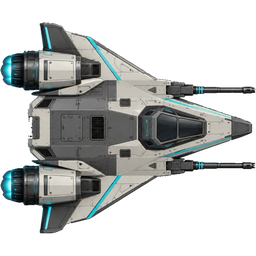
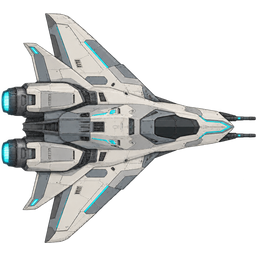
第48弾: 武器の種類を艦種で制限(攻3/潜2/空1)・スプライト一式をチャート参照で作り直し
Claude-Session: https://claude.ai/code/session_01JhR5z5pbpMjPLdDtvMr527

diff --git a/prototype/game.js b/prototype/game.js
@@ -408,10 +408,10 @@ const ENGINE_THRUST = {
 
 // バーニア位置定義 [lxFrac, lyFrac] × vr(=radius*2.8)。bow=+X、stern=-X。
 // 移動時のみCanvasグロー描画。スプライト自体にはスラスター不要（船体のみ生成）。
-const THRUSTER_DEFS = { // 第47弾: 新スプライト (Higgsfield・Star Citizen風) の噴射口に合わせて実測
-    assault: [[-0.93,-0.51],[-0.93, 0.47]],                                            // 2基 (大型ナセル)
-    stealth: [[-0.92, 0.0]],                                                           // 1基 (第47弾b: コンパクトな絵に差し替え)
-    carrier: [[-0.96,-0.32],[-0.96,-0.17],[-0.96, 0.0],[-0.96, 0.17],[-0.96, 0.34]],  // 5基
+const THRUSTER_DEFS = { // 第48弾: Star Citizen チャート参照の絵 (Higgsfield) の噴射口に合わせて実測
+    assault: [[-0.95,-0.38],[-0.95, 0.35]],                                                    // 2基 (大型ナセル)
+    stealth: [[-0.96, 0.0]],                                                                   // 1基
+    carrier: [[-0.98,-0.32],[-0.98,-0.19],[-0.98,-0.08],[-0.98, 0.06],[-0.98, 0.18],[-0.98, 0.31]], // 6基
 };
 
 // ============================================================
@@ -1134,10 +1134,26 @@ const SHIP_DRONES = {
 // 第17弾: 既定の積み方に離脱用の消耗品を入れる (オーナー合意 2026-10-25)。第20弾: 弾(ammoK=実弾の枠/ammoM=ミサイルの枠)を加える
 const DEFAULT_LOADOUT = {
     // 第26弾: リペアキットを各1個 (空母は資材を1枠・攻撃型はミサイルを1枠・潜航型はミサイルを1枠減らして入れる — 実装で決めた既定)
-    carrier: { ammoK: 1, ammoM: 3, attack: 2, build: 1, scout: 1, flash: 1, smoke: 1, mat: 4, repair: 1 },
-    assault: { ammoK: 3, ammoM: 3, attack: 1, flash: 1, smoke: 1, mat: 0, repair: 1 },
-    stealth: { ammoK: 1, ammoM: 1, decoy: 1, noise: 1, flash: 1, mat: 0, repair: 1 },
+    // 第48弾 (オーナー): 積める武器の「種類」を艦種で制限 (攻撃型3・潜航型2・空母1)。w=積んだ武器 (既定: 攻撃型=全部 / 潜航型=実弾+ミサイル / 空母=ミサイルだけ)
+    carrier: { w: ['missile'], ammoK: 0, ammoM: 4, attack: 2, build: 1, scout: 1, flash: 1, smoke: 1, mat: 4, repair: 1 },
+    assault: { w: ['kinetic', 'missile', 'beam'], ammoK: 3, ammoM: 3, attack: 1, flash: 1, smoke: 1, mat: 0, repair: 1 },
+    stealth: { w: ['kinetic', 'missile'], ammoK: 1, ammoM: 1, decoy: 1, noise: 1, flash: 1, mat: 0, repair: 1 },
 };
+const WEAPON_TYPE_CAP = { assault: 3, stealth: 2, carrier: 1 }; // 艦種ごとに積める武器の種類数
+const ALL_WEAPONS = ['kinetic', 'missile', 'beam'];
+// 積んだ武器を整える (重複・不明を除き、種類数の上限で切る。空なら既定)。弾を積んでいない種類の枠は0にする
+function normalizeWset(ship, w) {
+    const cap = WEAPON_TYPE_CAP[ship] || 3, out = [];
+    for (const k of (Array.isArray(w) ? w : [])) if (ALL_WEAPONS.includes(k) && !out.includes(k) && out.length < cap) out.push(k);
+    return out.length ? out : DEFAULT_LOADOUT[ship].w.slice();
+}
+function fixLoadoutWeapons(lo, ship) {
+    lo.w = normalizeWset(ship, lo.w);
+    if (!lo.w.includes('kinetic')) lo.ammoK = 0;
+    if (!lo.w.includes('missile')) lo.ammoM = 0;
+    return lo;
+}
+const _WPN_NAME = { kinetic: '実弾', missile: 'ミサイル', beam: 'ビーム' };
 let cargo = { stock: {}, mat: 0, asm: null, ammoK: 0, ammoM: 0 }; // asm = { type, t, total, ready } / ammoK=実弾の残り(斉射) / ammoM=ミサイルの残り(発)
 // ═══ 第17弾: 緊急離脱 (オーナー合意 2026-10-25) ═══
 // 閃光弾: 自艦の位置で炸裂。半径内の敵はセンサー損傷(探知×0.1)・敵ミサイルは誘導を失う。閃光の瞬間の位置は周囲の敵に知られる
@@ -3121,6 +3137,7 @@ function hitChanceR(w, r, seek) {
 }
 
 function playerWeaponReady(s, w) {
+    if (s === player && !playerHasWeapon(w)) return false; // 第48弾: 積んでいない武器は撃てない
     // 第20弾: 実弾・ミサイルは積んだ弾が尽きたら撃てない (補給所/コロニーで補給)
     if (w === 'kinetic') return !s.kineticReloading && s.kineticAmmo > 0 && (s !== player || cargo.ammoK > 0);
     if (w === 'missile') return !s.missileReloading && (s !== player || cargo.ammoM > 0);
@@ -3422,14 +3439,23 @@ class Ship {
         this.x += Math.cos(this.angle) * this._v; this.y += Math.sin(this.angle) * this._v;
         this.speed = this._v; this.currentSpeed = this._v;
     }
+    // 第48弾: 艦種の標準の武器 (序盤/終盤) が積んでいなければ、積んでいる中で近い役割のものへ
+    _wpref(w) {
+        const ws = this.wset;
+        if (!ws || ws.includes(w)) return w;
+        const alt = { kinetic: ['missile', 'beam'], missile: ['beam', 'kinetic'], beam: ['missile', 'kinetic'] }[w] || [];
+        for (const k of alt) if (ws.includes(k)) return k;
+        return ws[0] || w;
+    }
     _usableWeapon(pref, d) {
         // 第20弾: 艦載機は機銃(実弾)だけ。旧: 実弾の射程外だとミサイルへ切り替え、弾数の管理外で撃ち放題だった (自機の戦闘機も機銃だけ)
         if (this.type === 'fighter') return d <= 760 ? 'kinetic' : null;
-        const ok = (w) => w === 'kinetic' ? d <= 760 && (this.ammoK === undefined || this.ammoK > 0) && !(this._kReload > 0)
+        const ws = this.wset; // 第48弾: 積んでいない武器は撃てない
+        const ok = (w) => (ws && !ws.includes(w)) ? false : w === 'kinetic' ? d <= 760 && (this.ammoK === undefined || this.ammoK > 0) && !(this._kReload > 0)
                         : w === 'missile' ? d <= ENEMY_MISSILE_ENGAGE * 1.05 * epm(this).mslRange && (this.ammoM === undefined || this.ammoM > 0) && !(this._mReload > 0)
                         : w === 'beam' ? !(this._bReload > 0) : false;
         if (ok(pref)) return pref;
-        for (const w of ['missile', 'kinetic']) if (w !== pref && ok(w)) return w;
+        for (const w of ['missile', 'kinetic', 'beam']) if (w !== pref && ok(w)) return w;
         return null;
     }
     _relocateAfterFire(far, aimAng, retreat) {
@@ -3672,6 +3698,7 @@ class Ship {
                 const da = _angDiff(Math.atan2(ty - this.y, tx - this.x), this.angle);
                 if (autoAttackEnabled && lk.full && this.fireCooldown <= 0 && this._weaponJamTimer <= 0) {
                     for (const w of [wType, 'kinetic', 'missile']) {
+                        if (!playerHasWeapon(w)) continue;
                         if (lk.dist < weaponRange(w) && Math.abs(da) < (WEAPON_FIRE_ARC[w] || Math.PI / 4) && playerWeaponReady(this, w)) { playerFireWeapon(this, te, w, lk); break; }
                     }
                 }
@@ -4121,7 +4148,10 @@ class Ship {
             let _supplyActive = false;
             if (!_hideActive && this.type !== 'fighter' && this.ammoM !== undefined) {
                 const _profS = ENEMY_COMBAT[this.type] || ENEMY_COMBAT.destroyer;
-                const _needS = (this.ammoK <= 0 && this.ammoM <= 0) || (this.ammoM <= 0 && (_profS.weaponEarly !== 'kinetic' || this.ammoK < (this._fullK || 1) * 0.25));
+                // 第48弾: 弾を使う武器を積んでいる時だけ補給を考える (ビームだけの艦は弾の補給が要らない)。ミサイルを積んでいなければ実弾が25%を切った時だけ
+      const _hasAmmoW = (this._fullK || 0) > 0 || (this._fullM || 0) > 0;
+      const _kLow = this.ammoK < (this._fullK || 1) * 0.25;
+      const _needS = _hasAmmoW && ((this.ammoK <= 0 && this.ammoM <= 0) || (this.ammoM <= 0 && ((this._fullM || 0) > 0 ? (this._wpref(_profS.weaponEarly) !== 'kinetic' || _kLow) : _kLow)));
                 if (_needS && !this._supply) {
                     let best = null, bd = Infinity, kind = '';
                     for (const c of structures) { if (c.type !== 'colony' || c.hacked || c._usedE) continue; const d = Math.hypot(c.x - this.x, c.y - this.y); if (d < bd) { bd = d; best = c; kind = 'コロニー'; } }
@@ -4231,9 +4261,9 @@ class Ship {
                 // 自機の長距離射撃に一方的に削られていた。近接火器(kinetic)の間合いは従来どおり fireRange。
                 const engageRange = Math.max(fireRange, ENEMY_MISSILE_ENGAGE);
                 // ── 第22弾: 戦艦の戦闘機動 (毎フレーム・慣性つき)。機動の選び方は10秒続ける (相手の兵装が変わった時と耐久が半分を切った時は選び直す) ──
-                let _plannedW = gameState.sector <= 3 ? prof.weaponEarly : prof.weaponLate;
-                if (this.predictedBehavior === 'kinetic' && _plannedW === 'kinetic') _plannedW = 'missile';
-                if (outmatched && _plannedW === 'kinetic') _plannedW = 'missile';
+                let _plannedW = this._wpref(gameState.sector <= 3 ? prof.weaponEarly : prof.weaponLate);
+                if (this.predictedBehavior === 'kinetic' && _plannedW === 'kinetic') _plannedW = this._wpref('missile');
+                if (outmatched && _plannedW === 'kinetic') _plannedW = this._wpref('missile');
                 if (ENEMY_CLASS[this.type]) {
                     const _ms = this._maxSpeeds();
                     const oppW = player && player._lastFireType && _frameCount - (player._lastFireF || -1e9) < 1200 && this.contactFreshness > 0.3 ? player._lastFireType : null;
@@ -4270,13 +4300,13 @@ class Ship {
                     }
                     const diff = _angDiff(ta, this.angle);
                     // 艦種別の武器選択 (序盤/終盤) + 既存の行動推定適応
-                    let wType = gameState.sector <= 3 ? prof.weaponEarly : prof.weaponLate;
+                    let wType = this._wpref(gameState.sector <= 3 ? prof.weaponEarly : prof.weaponLate);
                     // 適応: プレイヤーが実弾近接戦と推定 & 自分も近接武器なら長射程へ (アウトレンジ)
-                    if (this.predictedBehavior === 'kinetic' && wType === 'kinetic') wType = 'missile';
-                    if (outmatched && wType === 'kinetic') wType = 'missile';
+                    if (this.predictedBehavior === 'kinetic' && wType === 'kinetic') wType = this._wpref('missile');
+                    if (outmatched && wType === 'kinetic') wType = this._wpref('missile');
                     this.weaponType = wType;
                     // kinetic は射程800しか飛ばないので、それを超える間合いでは強制的にミサイルへ
-                    if (wType === 'kinetic' && distToBelief > 760) wType = 'missile';
+                    if (wType === 'kinetic' && distToBelief > 760) wType = this._wpref('missile');
                     // 第20弾: 弾数・リロード・ビームのチャージ (自機と同じ)。使えない兵装は持ち替え、何も無ければ撃たない
                     wType = this._usableWeapon(wType, distToBelief);
                     // 第39弾: 見えていない相手には、推定円が十分に小さい時だけ撃つ (自機COMと同じ基準: 見込み ≥ 65% − 35%×攻撃性)。方位しか無ければ撃たない
@@ -5788,6 +5818,14 @@ function generateSector() {
         const _th = document.getElementById('think-who');
         if (_th) _th.textContent = '自機COM ' + SHIP_JP[comCfg.ship] + ' [' + persLabel(_com.pp) + ']  vs  敵COM ' + SHIP_JP[comCfg.enemy] + ' [' + persLabel(boss.personality) + ']';
     }
+    // 第48弾: 敵の武器の種類も艦種の上限 (攻撃型3・潜航型2・空母1)。COM対戦は積み込みの設定どおり。通常の敵は性格で選ぶ (潜航型: 隠密/慎重ならビーム+ミサイル・他は実弾+ミサイル)
+    { const _es2 = { destroyer: 'assault', corvette: 'stealth', carrier: 'carrier' }[boss.type] || 'assault';
+      const _cl2 = comDemo && comCfg && comCfg.lo && comCfg.lo.e && comCfg.lo.e[_es2];
+      let _w2 = _cl2 && _cl2.w ? normalizeWset(_es2, _cl2.w) : DEFAULT_LOADOUT[_es2].w.slice();
+      if (!_cl2 && _es2 === 'stealth' && boss.personality && ((boss.personality.stealth ?? 0) >= 0.6 || (boss.personality.caution ?? 0) >= 0.6)) _w2 = ['missile', 'beam'];
+      boss.wset = _w2;
+      if (!_w2.includes('kinetic')) { boss._fullK = 0; boss.ammoK = 0; }
+      if (!_w2.includes('missile')) { boss._fullM = 0; boss.ammoM = 0; } }
     // 第21弾: 敵のエンジン (性格で選ぶ。速さはエンジンの倍率) / 自機のエンジン切替をリセット
     { const _env0 = comEnvAt(boss.x, boss.y), _ev0 = comEngineEval(boss.personality || {}, 'search', _env0); // 第42弾: 出現した所の環境と性格で (自機COMと同じ)
       boss.engine = _ev0.engine; boss._engSwT = 0; boss._engM = { engRevF: _frameCount, engSit: 'search' };
@@ -5983,6 +6021,7 @@ const ENEMY_USES = ['flash', 'noise', 'smoke', 'fsos', 'lure', 'bcn_heat', 'bcn_
 function comLoadout(side, ship) {
     const st = comCfg && comCfg.lo && comCfg.lo[side] && comCfg.lo[side][ship];
     const lo = Object.assign({ mat: 0 }, st || DEFAULT_LOADOUT[ship]);
+    fixLoadoutWeapons(lo, ship); // 第48弾
     if (side === 'e') { // 敵が使わない物 (資材・設置物・人型など) は外す — 枠を空けて弾や消耗品に回せるように
         lo.mat = 0;
         for (const t of SHIP_DRONES[ship] || []) if (!(ENEMY_USES.includes(t) || (t === 'attack' && ship === 'carrier'))) lo[t] = 0;
@@ -5990,7 +6029,9 @@ function comLoadout(side, ship) {
     return lo;
 }
 function loSummary(lo, ship, enemySide) {
-    const parts = ['実弾' + (lo.ammoK || 0), 'ミサイル' + (lo.ammoM || 0)];
+    const wl = normalizeWset(ship, lo.w), parts = ['武器:' + wl.map(k => _WPN_NAME[k]).join('+')];
+    if (wl.includes('kinetic')) parts.push('実弾' + (lo.ammoK || 0));
+    if (wl.includes('missile')) parts.push('ミサイル' + (lo.ammoM || 0));
     for (const t of SHIP_DRONES[ship] || []) if (lo[t] && (!enemySide || ENEMY_USES.includes(t) || (t === 'attack' && ship === 'carrier'))) parts.push(DRONE_SPEC[t].label + lo[t]);
     if (!enemySide && lo.mat) parts.push('資材' + lo.mat);
     return parts.join('・') + ' (' + loadoutSlots(lo, ship) + '/' + HOLD_CAP[ship] + '枠)';
@@ -6006,8 +6047,14 @@ function _renderLoadout() {
     const e = _loEdit; if (!e) return;
     const cap = HOLD_CAP[e.ship], used = loadoutSlots(e.lo, e.ship);
     const rows = [];
+    // 第48弾: 積む武器の種類 (艦種ごとに上限)。積んでいない武器の弾は積めない
+    e.lo.w = normalizeWset(e.ship, e.lo.w);
+    { const capW = WEAPON_TYPE_CAP[e.ship];
+      rows.push('<div class="lo-row lo-wset"><span class="lo-name">武器の種類<small>この艦は' + capW + '種まで — ビームは枠を使わない (撃つと位置が割れる・連射できない)</small></span>'
+        + ALL_WEAPONS.map(k => '<button data-w="' + k + '" class="' + (e.lo.w.includes(k) ? 'on' : '') + '">' + _WPN_NAME[k] + '</button>').join('') + '</div>'); }
     // 第20弾: 弾も同じ枠 (1枠=実弾48斉射 / ミサイル3発)
     for (const [k, lbl, per] of [['ammoK', '実弾', AMMO_PER_SLOT.kinetic + '斉射'], ['ammoM', 'ミサイル', AMMO_PER_SLOT.missile + '発']]) {
+        if (!e.lo.w.includes(k === 'ammoK' ? 'kinetic' : 'missile')) continue;
         rows.push('<div class="lo-row lo-ammo"><span class="lo-name">' + lbl + '<small>1枠=' + per + ' — 計' + (e.lo[k] || 0) * AMMO_PER_SLOT[k === 'ammoK' ? 'kinetic' : 'missile'] + '</small></span>'
             + '<button data-k="' + k + '" data-d="-1"' + (e.lo[k] > 0 ? '' : ' disabled') + '>−</button><b>' + (e.lo[k] || 0) + '</b>'
             + '<button data-k="' + k + '" data-d="1"' + (used + 1 <= cap ? '' : ' disabled') + '>＋</button></div>');
@@ -6034,6 +6081,15 @@ function _renderLoadout() {
     const ov = document.getElementById('loadout-overlay');
     if (!ov) return;
     document.getElementById('lo-rows').addEventListener('click', (ev) => {
+        const wb = ev.target.closest('button[data-w]'); // 第48弾: 武器の種類の切替 (上限を超えたら一番古い物が外れる)
+        if (wb && _loEdit) {
+            const lo = _loEdit.lo, k = wb.dataset.w, cap = WEAPON_TYPE_CAP[_loEdit.ship];
+            let w = normalizeWset(_loEdit.ship, lo.w);
+            if (w.includes(k)) { if (w.length > 1) w = w.filter(x => x !== k); }
+            else { w.push(k); if (w.length > cap) w.shift(); }
+            lo.w = w; fixLoadoutWeapons(lo, _loEdit.ship);
+            _renderLoadout(); playSound('ui'); return;
+        }
         const b = ev.target.closest('button[data-k]');
         if (!b || b.disabled || !_loEdit) return;
         const k = b.dataset.k, d = +b.dataset.d;
@@ -6455,6 +6511,7 @@ document.getElementById('btn-repair-drone')?.addEventListener('click', () => {
 })();
 
 document.getElementById('weapon-select')?.addEventListener('change', e => {
+    if (!playerHasWeapon(e.target.value)) { e.target.value = _curWeapon; return; } // 第48弾
     _curWeapon = e.target.value || 'kinetic';
     player && (player._fireOrder = null); // 武器を変えたら出しかけの射撃命令は取り消す
 });
@@ -9047,6 +9104,7 @@ function freeFireAt(wx, wy) {
     if (comDemo) return;
     if (player._weaponJamTimer > 0) { logMessage('WEP: 火器管制ダウン — 復旧まで発砲不能', 'warning-msg'); return; }
     const wType = document.getElementById('weapon-select')?.value;
+    if (!playerHasWeapon(wType)) { logMessage('WEP: ' + (_WPN_NAME[wType] || wType) + 'は積んでいない', 'warning-msg'); return; } // 第48弾
     // 第46弾: 全兵装が任意の地点へ撃てる。射程より遠い地点は、その方向へ射程いっぱいまで撃つ
     const _dd = Math.hypot(wx - player.x, wy - player.y), _rg = weaponRange(wType);
     let _far = false;
@@ -11030,18 +11088,30 @@ function drawDecoys(ctx) {
 function shipLoadout(ship) {
     const src = (gameState.loadout && gameState.loadout[ship]) || DEFAULT_LOADOUT[ship] || {};
     // 第20弾: 弾の項目が無い古い積み込み計画 (第19弾まで) は既定に戻す (枠の大きさも変わったため)
-    if (!('ammoK' in src)) return Object.assign({ mat: 0 }, DEFAULT_LOADOUT[ship]);
-    const lo = { mat: Math.max(0, src.mat | 0), ammoK: Math.max(0, src.ammoK | 0), ammoM: Math.max(0, src.ammoM | 0) };
+    if (!('ammoK' in src)) return fixLoadoutWeapons(Object.assign({ mat: 0 }, DEFAULT_LOADOUT[ship]), ship);
+    const lo = { mat: Math.max(0, src.mat | 0), ammoK: Math.max(0, src.ammoK | 0), ammoM: Math.max(0, src.ammoM | 0), w: src.w };
     for (const t of SHIP_DRONES[ship] || []) lo[t] = Math.max(0, src[t] | 0);
-    return loadoutSlots(lo, ship) <= (HOLD_CAP[ship] || 0) ? lo : Object.assign({ mat: 0 }, DEFAULT_LOADOUT[ship]);
+    fixLoadoutWeapons(lo, ship); // 第48弾: 積んでいない武器の弾は積めない
+    return loadoutSlots(lo, ship) <= (HOLD_CAP[ship] || 0) ? lo : fixLoadoutWeapons(Object.assign({ mat: 0 }, DEFAULT_LOADOUT[ship]), ship);
 }
 function loadoutSlots(lo, ship) {
     let n = (lo.mat || 0) + (lo.ammoK || 0) + (lo.ammoM || 0);
     for (const t of SHIP_DRONES[ship] || []) n += (lo[t] || 0) * DRONE_SPEC[t].w;
     return n;
 }
+// 第48弾: 今の艦が積んでいる武器 (自艦)。武器切替・自動攻撃・COM・AIの助言は全部これだけを使う
+let _wset = ['kinetic', 'missile', 'beam'];
+function playerHasWeapon(w) { return _wset.includes(w); }
+function applyWeaponSet(w) {
+    _wset = w.slice();
+    const sel = document.getElementById('weapon-select');
+    if (sel) for (const o of sel.options) o.disabled = !_wset.includes(o.value);
+    if (!_wset.includes(_curWeapon)) { _curWeapon = _wset[0]; if (sel) sel.value = _curWeapon; if (player) player._fireOrder = null; }
+    if (typeof window.syncWeaponUI === 'function') window.syncWeaponUI();
+}
 function resetCargo() {
     const lo = shipLoadout(gameState.shipType);
+    applyWeaponSet(lo.w);
     cargo = { stock: {}, mat: lo.mat * MAT_PER_SLOT, asm: null, ammoK: lo.ammoK * AMMO_PER_SLOT.kinetic, ammoM: lo.ammoM * AMMO_PER_SLOT.missile };
     for (const t of SHIP_DRONES[gameState.shipType] || []) cargo.stock[t] = lo[t] || 0;
     if (player) player.kineticAmmo = Math.min(player.kineticMaxAmmo || KINETIC_MAG, cargo.ammoK);
@@ -12753,6 +12823,7 @@ function xoEscapeStep() {
     else if (player.currentSpeed >= flankV * 0.8) toggleCoast(true);
 }
 function switchWeapon(w) {
+    if (!playerHasWeapon(w)) { logMessage('WEP: ' + (_WPN_NAME[w] || w) + 'は積んでいない — この艦は' + _wset.map(k => _WPN_NAME[k]).join('・') + 'だけ', 'warning-msg'); return; }
     const sel = document.getElementById('weapon-select');
     if (sel && sel.value !== w) { sel.value = w; sel.dispatchEvent(new Event('change')); }
     if (typeof window.syncWeaponUI === 'function') window.syncWeaponUI();
@@ -13288,12 +13359,12 @@ function comPilotStep() {
         // 第20弾: 撃てるものから持ち替える — ミサイル(リロード済み) → 実弾(射程内) → ビーム(射程の外側・溜まっていれば) → 届くもの
         // (ビームは射角±10°で2秒溜めるので、至近の撃ち合いでは実弾を止めてしまう)
         const wNow = currentWeapon();
-        const mOk = cargo.ammoM > 0 && lk.dist > 250 && lk.dist < weaponRange('missile') * 0.9;
-        const kOk = lk.dist < weaponRange('kinetic') * 0.9 && cargo.ammoK > 0;
+        const mOk = playerHasWeapon('missile') && cargo.ammoM > 0 && lk.dist > 250 && lk.dist < weaponRange('missile') * 0.9;
+        const kOk = playerHasWeapon('kinetic') && lk.dist < weaponRange('kinetic') * 0.9 && cargo.ammoK > 0;
         const wWant = mOk && playerWeaponReady(player, 'missile') ? 'missile'
             : kOk ? 'kinetic'
-            : playerWeaponReady(player, 'beam') ? 'beam'
-            : mOk ? 'missile' : 'beam';
+            : playerHasWeapon('beam') && playerWeaponReady(player, 'beam') ? 'beam'
+            : mOk ? 'missile' : playerHasWeapon('beam') ? 'beam' : _wset[0];
         if (wWant !== wNow && (wNow !== 'beam' || !(player._beamCharge > 0))) {
             switchWeapon(wWant);
             comThinkEvent('p', '有視界 ' + Math.round(lk.dist / 100) * 100 + 'u → ' + _WPN_JP[wWant] + 'に持ち替える');
@@ -13317,7 +13388,7 @@ function comPilotStep() {
         const lm = sa && sa.misses && sa.misses[sa.misses.length - 1], lo = sa && sa.obs[sa.obs.length - 1];
         const hc = assumedHitChance(te, w, lk);
         let bw = w, bh = hc;
-        for (const w2 of ['beam', 'missile']) { const h2 = assumedHitChance(te, w2, lk); if (h2 > bh + 0.15) { bw = w2; bh = h2; } }
+        for (const w2 of ['beam', 'missile']) { if (!playerHasWeapon(w2)) continue; const h2 = assumedHitChance(te, w2, lk); if (h2 > bh + 0.15) { bw = w2; bh = h2; } }
         const no = sigNo(enemySid(te));
         if (lm && (!lo || lo.f < lm.f + 90)) held = 'SIG-' + no + ' 推定点は外れた → 新しい方位を取るまで撃たない';
         else if (bw !== w && bh >= fireThr) {
@@ -13725,6 +13796,7 @@ function xoEvaluate() {
         // 武器の向き不向き: 他の武器の方がはるかに当たるなら切替を勧める
         let bestW = w, bestHc = hc;
         for (const w2 of ['beam', 'missile']) {
+            if (!playerHasWeapon(w2)) continue;
             const h2 = assumedHitChance(te, w2, lk);
             if (h2 > bestHc + 0.15) { bestW = w2; bestHc = h2; }
         }
@@ -13772,7 +13844,7 @@ function xoEvaluate() {
             // 届いて当たり得る兵装があるなら、近づくより持ち替えを勧める (近づけば聞かれ、撃たれる)
             let reach = null, reachHc = 0;
             for (const w2 of ['missile', 'beam']) {
-                if (w2 === w || weaponRange(w2) < _dEst) continue;
+                if (w2 === w || !playerHasWeapon(w2) || weaponRange(w2) < _dEst) continue;
                 const lp = leadPoint(sa, w2), h2 = lp ? hitChanceR(w2, lp.r, PM.seeker ? 1300 : 900) : 0;
                 if (!reach || h2 > reachHc) { reach = w2; reachHc = h2; }
             }

diff --git a/prototype/index.html b/prototype/index.html
@@ -14,7 +14,7 @@
     <link rel="manifest" href="manifest.webmanifest">
     <meta name="theme-color" content="#020a06">
     <!-- ?v= は game.js/style.css を変更するたびに必ず更新する (キャッシュバスティング) -->
-    <link rel="stylesheet" href="style.css?v=20261108c">
+    <link rel="stylesheet" href="style.css?v=20261108d">
     <link
         href="https://fonts.googleapis.com/css2?family=Orbitron:wght@400;700&family=Inter:wght@300;400;600&display=swap"
         rel="stylesheet">
@@ -772,7 +772,7 @@
     </div>
 
     <!-- ?v= は game.js を変更するたびに必ず更新する (ブラウザ/GitHub Pagesのキャッシュ対策) -->
-    <script src="game.js?v=20261108c"></script>
+    <script src="game.js?v=20261108d"></script>
     <script>
     // アイコンボタン ↔ hidden select の同期
     function setupIconSelect(groupId, selectId) {
@@ -911,7 +911,13 @@
         }
         _btn.addEventListener('click', function(e) {
             e.stopPropagation();
-            apply(MODES[(curIdx() + 1) % MODES.length]);
+            // 第48弾: 積んでいない武器は飛ばす
+            var i = curIdx();
+            for (var t = 0; t < MODES.length; t++) {
+                i = (i + 1) % MODES.length;
+                if (typeof playerHasWeapon !== 'function' || playerHasWeapon(MODES[i].w)) break;
+            }
+            apply(MODES[i]);
             if (typeof playSound === 'function') playSound('ui');
         });
         window.syncWeaponUI();

diff --git a/prototype/style.css b/prototype/style.css
@@ -2583,3 +2583,8 @@ body.in-game #zoom-ctl #btn-pause.on { background: rgba(80,60,0,0.85); color: #f
 .part-card.rare, .pc.rare { border-color: #ffcf88 !important; box-shadow: 0 0 10px rgba(255,190,90,0.35); }
 .rare .pc-cat { color: #ffcf88; }
 .rare .pc-ico { color: #ffcf88; }
+
+/* 第48弾: 積み込み画面の武器の種類 */
+.lo-row.lo-wset { flex-wrap: wrap; }
+.lo-row.lo-wset button { width: auto; height: 28px; border-radius: 14px; padding: 0 12px; font-size: 12px; }
+.lo-row.lo-wset button.on { border-color: #00ffaa; color: #00ffaa; background: rgba(0,255,170,0.16); }

diff --git a/HANDOVER.md b/HANDOVER.md
@@ -21,6 +21,7 @@
 - **第45弾**（§3-59）: ソナーの出力トグル（索敵 → [出力 弱/中/強][全周囲][指向性]・`sonarLevel`）。⚠ ポップオーバーの子ボタンは押すと閉じる — 開いたままにしたいボタンには `data-keepopen`
 - **第46弾**（§3-60）: ドローン帰還=本物の命令（指示は圏外にも届く・全機帰還）・全武器の座標射撃（射程外はその方向へ）・戦闘バーの表示条件・散布弾/吹き飛ばし弾/帯域ビーコン・COMの作戦「囮で誘い背後を取る」（`enemyPlanStep`/`comPlanStep`）・効果音の合成し直し（`_sfx*`）。⚠ `droneOrders[type]` が `{kind:'return'}` を持つ — 「指示なし」を前提に `!droneOrders[t]` で判定しないこと / `higgsClears` の要素は線(幅300u)と円(`hw`)の両方
 - **第47弾**（§3-61）: 戦艦・ドローンの全スプライトを Star Citizen 風に作り直し（Higgsfield→手元で背景抜き）。⚠ Higgsfield の `remove_background` は starter プランで同時4ジョブ・生成も429が出やすい → 背景が単色なら手元の塗りつぶし抜き（四隅の色・外周から連結・scipy）で足りる。スラスターの光は `THRUSTER_DEFS` を絵の噴射口に実測で合わせる（シアンの輝点を左25%で検出）
+- **第48弾**（§3-62）: 武器の種類を艦種で制限（`WEAPON_TYPE_CAP`・`lo.w`・`playerHasWeapon`・敵は `e.wset`）／スプライト一式をチャート参照で作り直し。⚠ Higgsfield `gpt_image_2_5` は `background:"transparent"` で透過PNGを返し、参照画像は `media_upload`→curl PUT→`media_confirm` で `image_references` に渡せる（背景抜きの作業は不要・同時に出せるのは4件程度で、12件まとめると429）。新しい武器が増えたら `ALL_WEAPONS`・積み込み画面・`_wpref`・COMの持ち替えを足す。旧: 空母の既定は 実弾1枠+ミサイル3枠
 - **第44弾**（§3-58）: 感度は弱/中/強の3段階（帯域バーのタップで OFF→弱→中→強→OFF・全OFF可）・センサー範囲の常時表示・ドローンの有視界・難破船は発見まで隠す・誤認の表示 `_phantomMarks`・マップの傾向 `rollMapTheme` と信号の置き場所 `_fieldSpotFor`。⚠ 信号の種類を足す時は `_fieldSpotFor` に置き場所の規則を、`generateFieldSignals` に傾向の重みを入れること
 - **第43弾**（§3-57）: 帯域ごとの感度（OFF/標準/高感度・帯域バーのタップで循環）・ソナーの出力（弱/標準/強・「索敵」タップ/長押し）・指向ソナーは向きの先だけ・濃度表示は聴いている帯域に効く層だけ。⚠ 受信の式に帯域ごとの倍率 `gainOf` を入れたので、新しく発信源を聴く所を足す時は `hearSource(..., bandGainP)`（敵は `bandGainE(e)`）を渡すこと。⚠ 右列「索敵」のポップオーバー（`data-group="scan"`）は廃止 → 指向ソナー・信号一覧は長押しメニュー
 - **第42弾**（§3-56）: エンジンの性能差（速さ `engineSpeedFactor`・EMの機動・推進の信号の向き `ENGINE_DIR`/`sigToward`・届く強さ）と、COMの場面×環境でのエンジン選び（`comEngineEval`/`comEngineDecide`・敵も試合中に切替）。パルスの表示名はEM。⚠ 受信の式に向きを入れたので、新しく発信源を聴く所を足す時は `sigPeak` ではなく `sigToward(発信源, 帯域, 受け手x, 受け手y)` を使うこと

diff --git a/TODO.md b/TODO.md
@@ -2087,3 +2087,8 @@ radius    = MAP_RADIUS × (1 - avg_param / 100)
 詳細は `CLAUDE.md` の「第47弾」。戦艦6種＋ドローン8種＋ミサイルの計15枚を Higgsfield で生成・差し替え、スラスターの光の位置を実測で合わせた。
 - 案: コロニー・難破船・輸送船・ノード・機雷・囮のスプライトも同じ言語に揃える / 3Dの試作（§4-6）は据え置き。
 
+### 3-62. ✅ 第48弾: 武器の種類を艦種で制限・スプライト一式をチャート参照で作り直し (2026-11-08・`claude/youthful-ride-jsr63s`)
+詳細は `CLAUDE.md` の「第48弾」。攻撃型3・潜航型2・空母1種（実弾/ミサイル/ビーム）まで積める。敵も同じ。スプライト19枚を作り直し。
+- **記録のみ（オーナー: 艦隊戦はまだいい）— キャンペーン（敵が複数艦の艦隊）で作る艦の案**: 偵察艦（受信距離が長く武器はごく軽い・哨戒機を多く）/ 解析艦（演算力を味方で分け合う仕組み `analysisPower` を艦隊に広げる）。艦隊なら観測点が増えて三角測量の基線がすぐ取れる（推論）。一騎打ちでは勝ち筋が無いので、艦隊戦の追加時にまとめて入れる。他の案: 機雷・電子戦艦（囮で誘って機雷原へ）/ 拿捕艦（輸送船の拿捕が速い）/ 装甲艦（耐久最大・最遅）/ 狙撃艦（ビーム専用 — 潜航型にビームで代用できるため今は見送り）。
+- 案（未着手）: COMの戦略を武器構成から決める（ビーム艦=一撃離脱・ミサイル艦=射程外から圧・実弾艦=霧で待ち伏せ）/ 構造物の残り（ノード・コンテナ・囮）も同じ言語に揃える。
+
